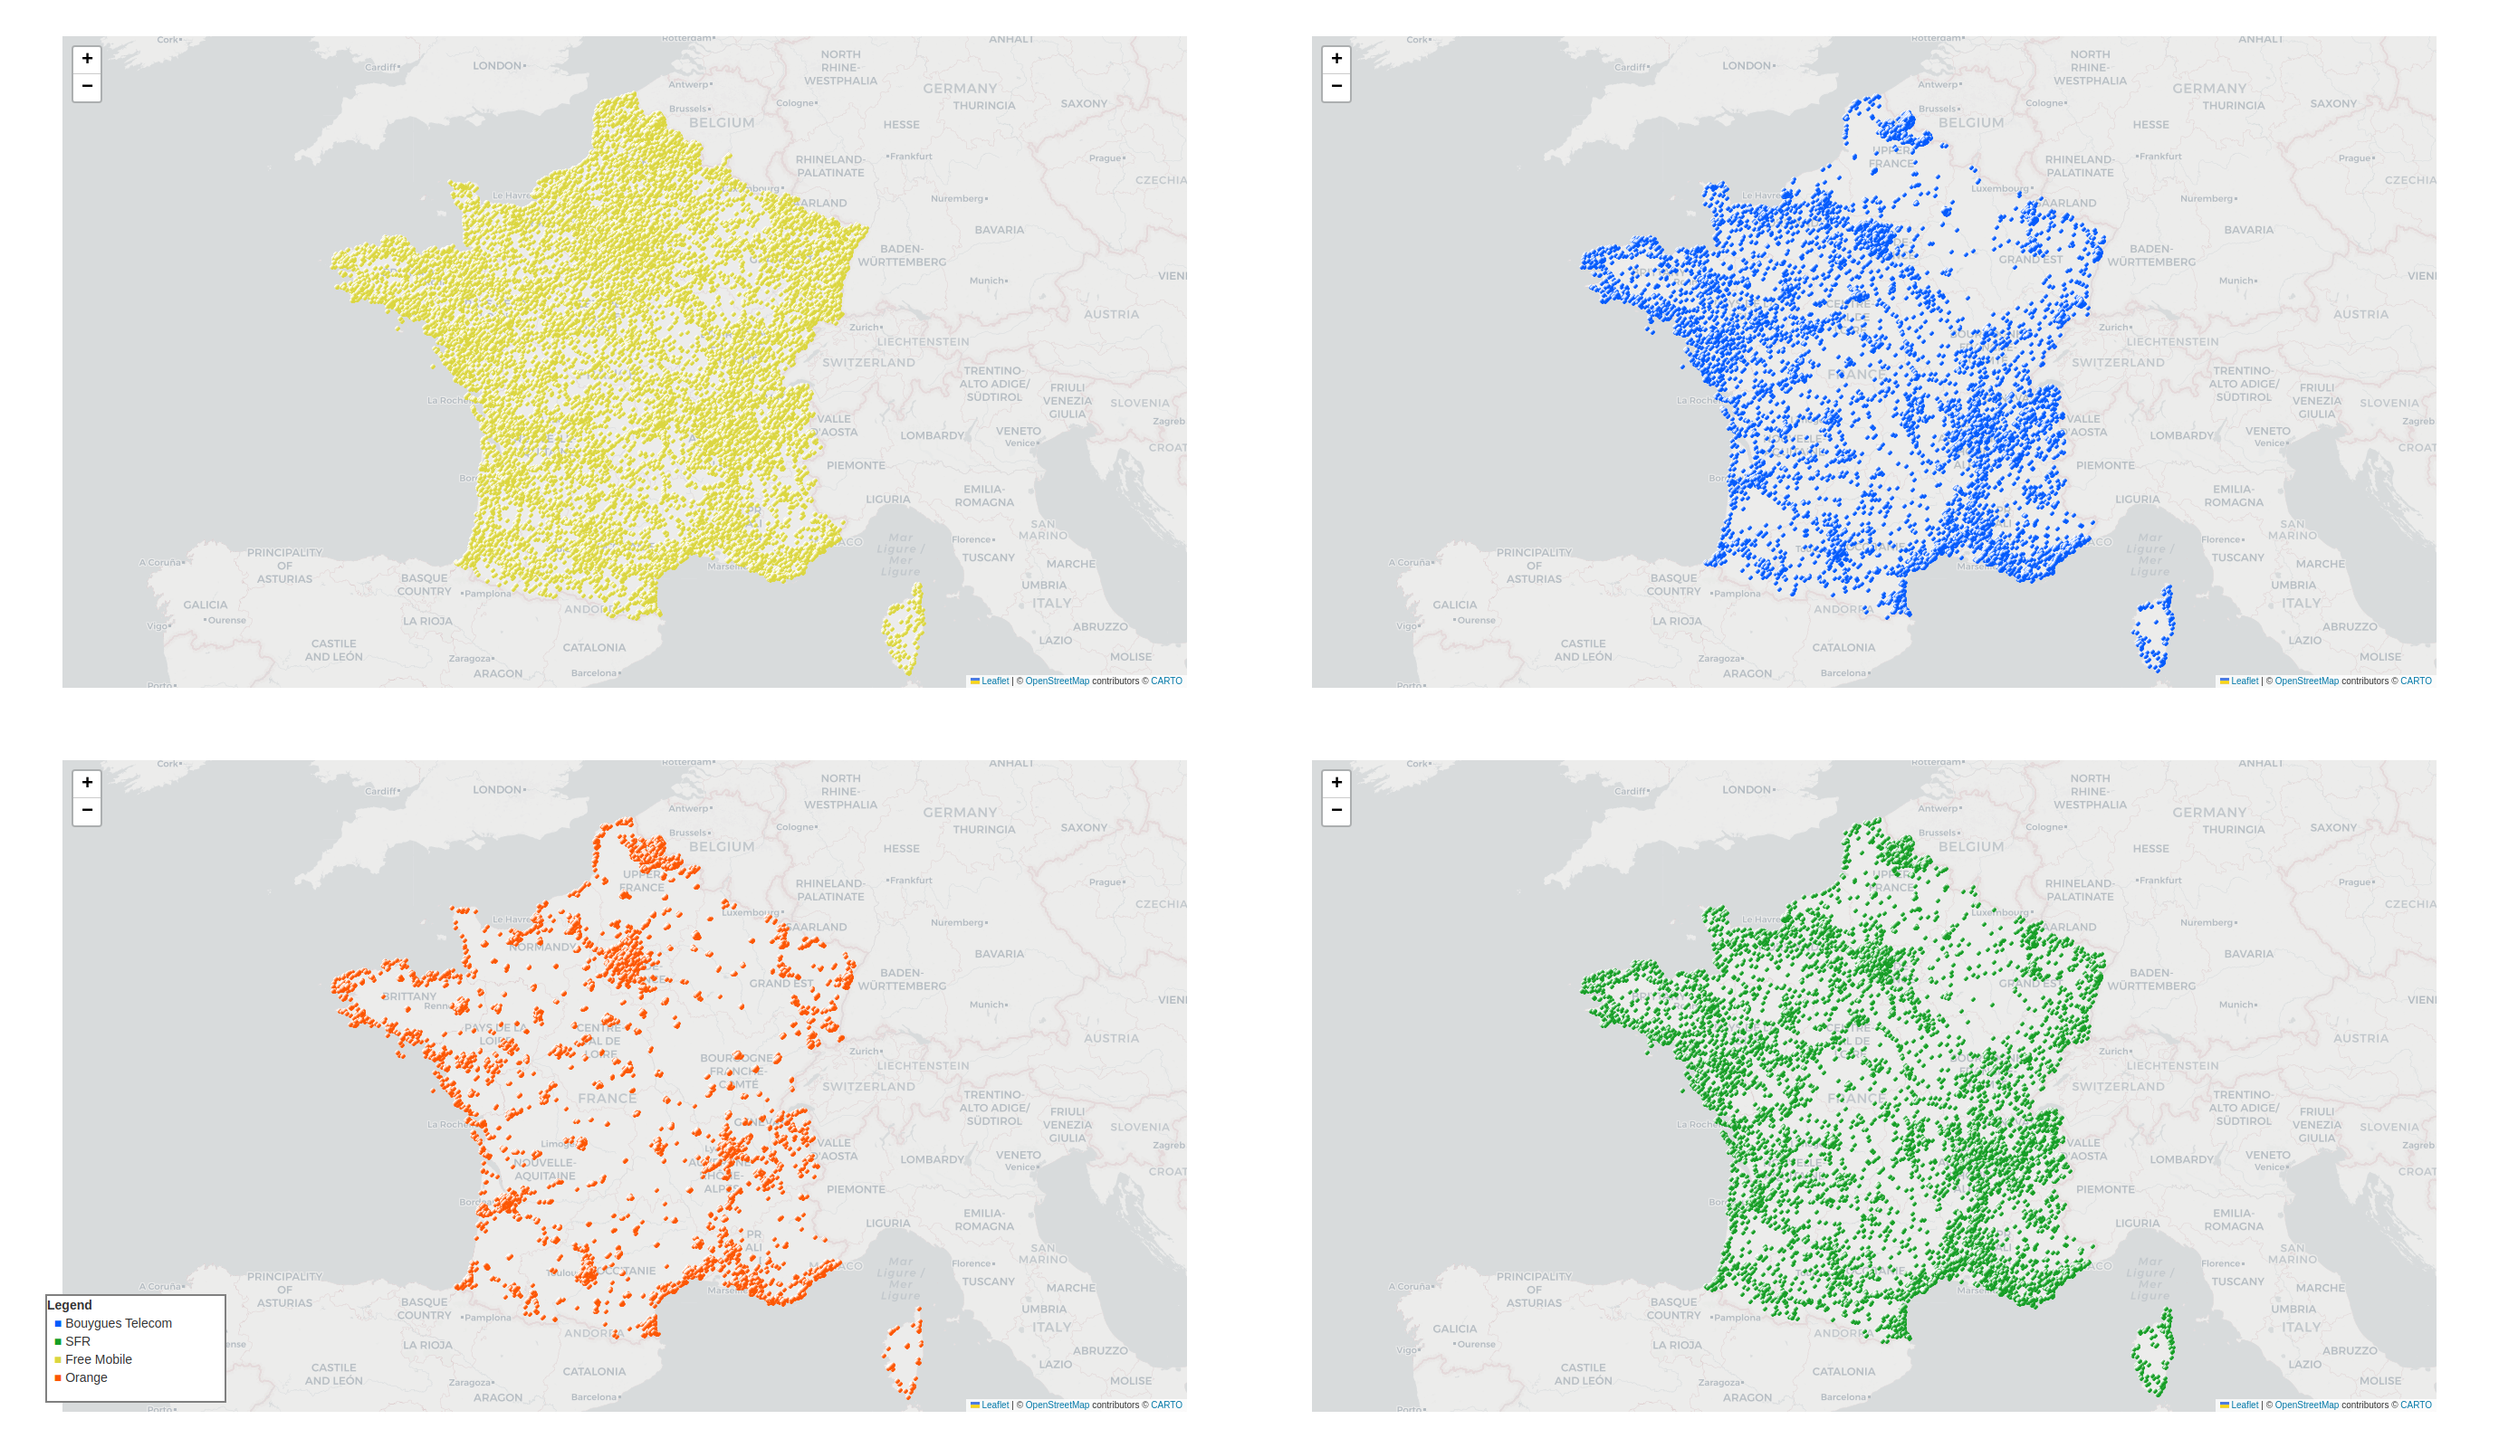
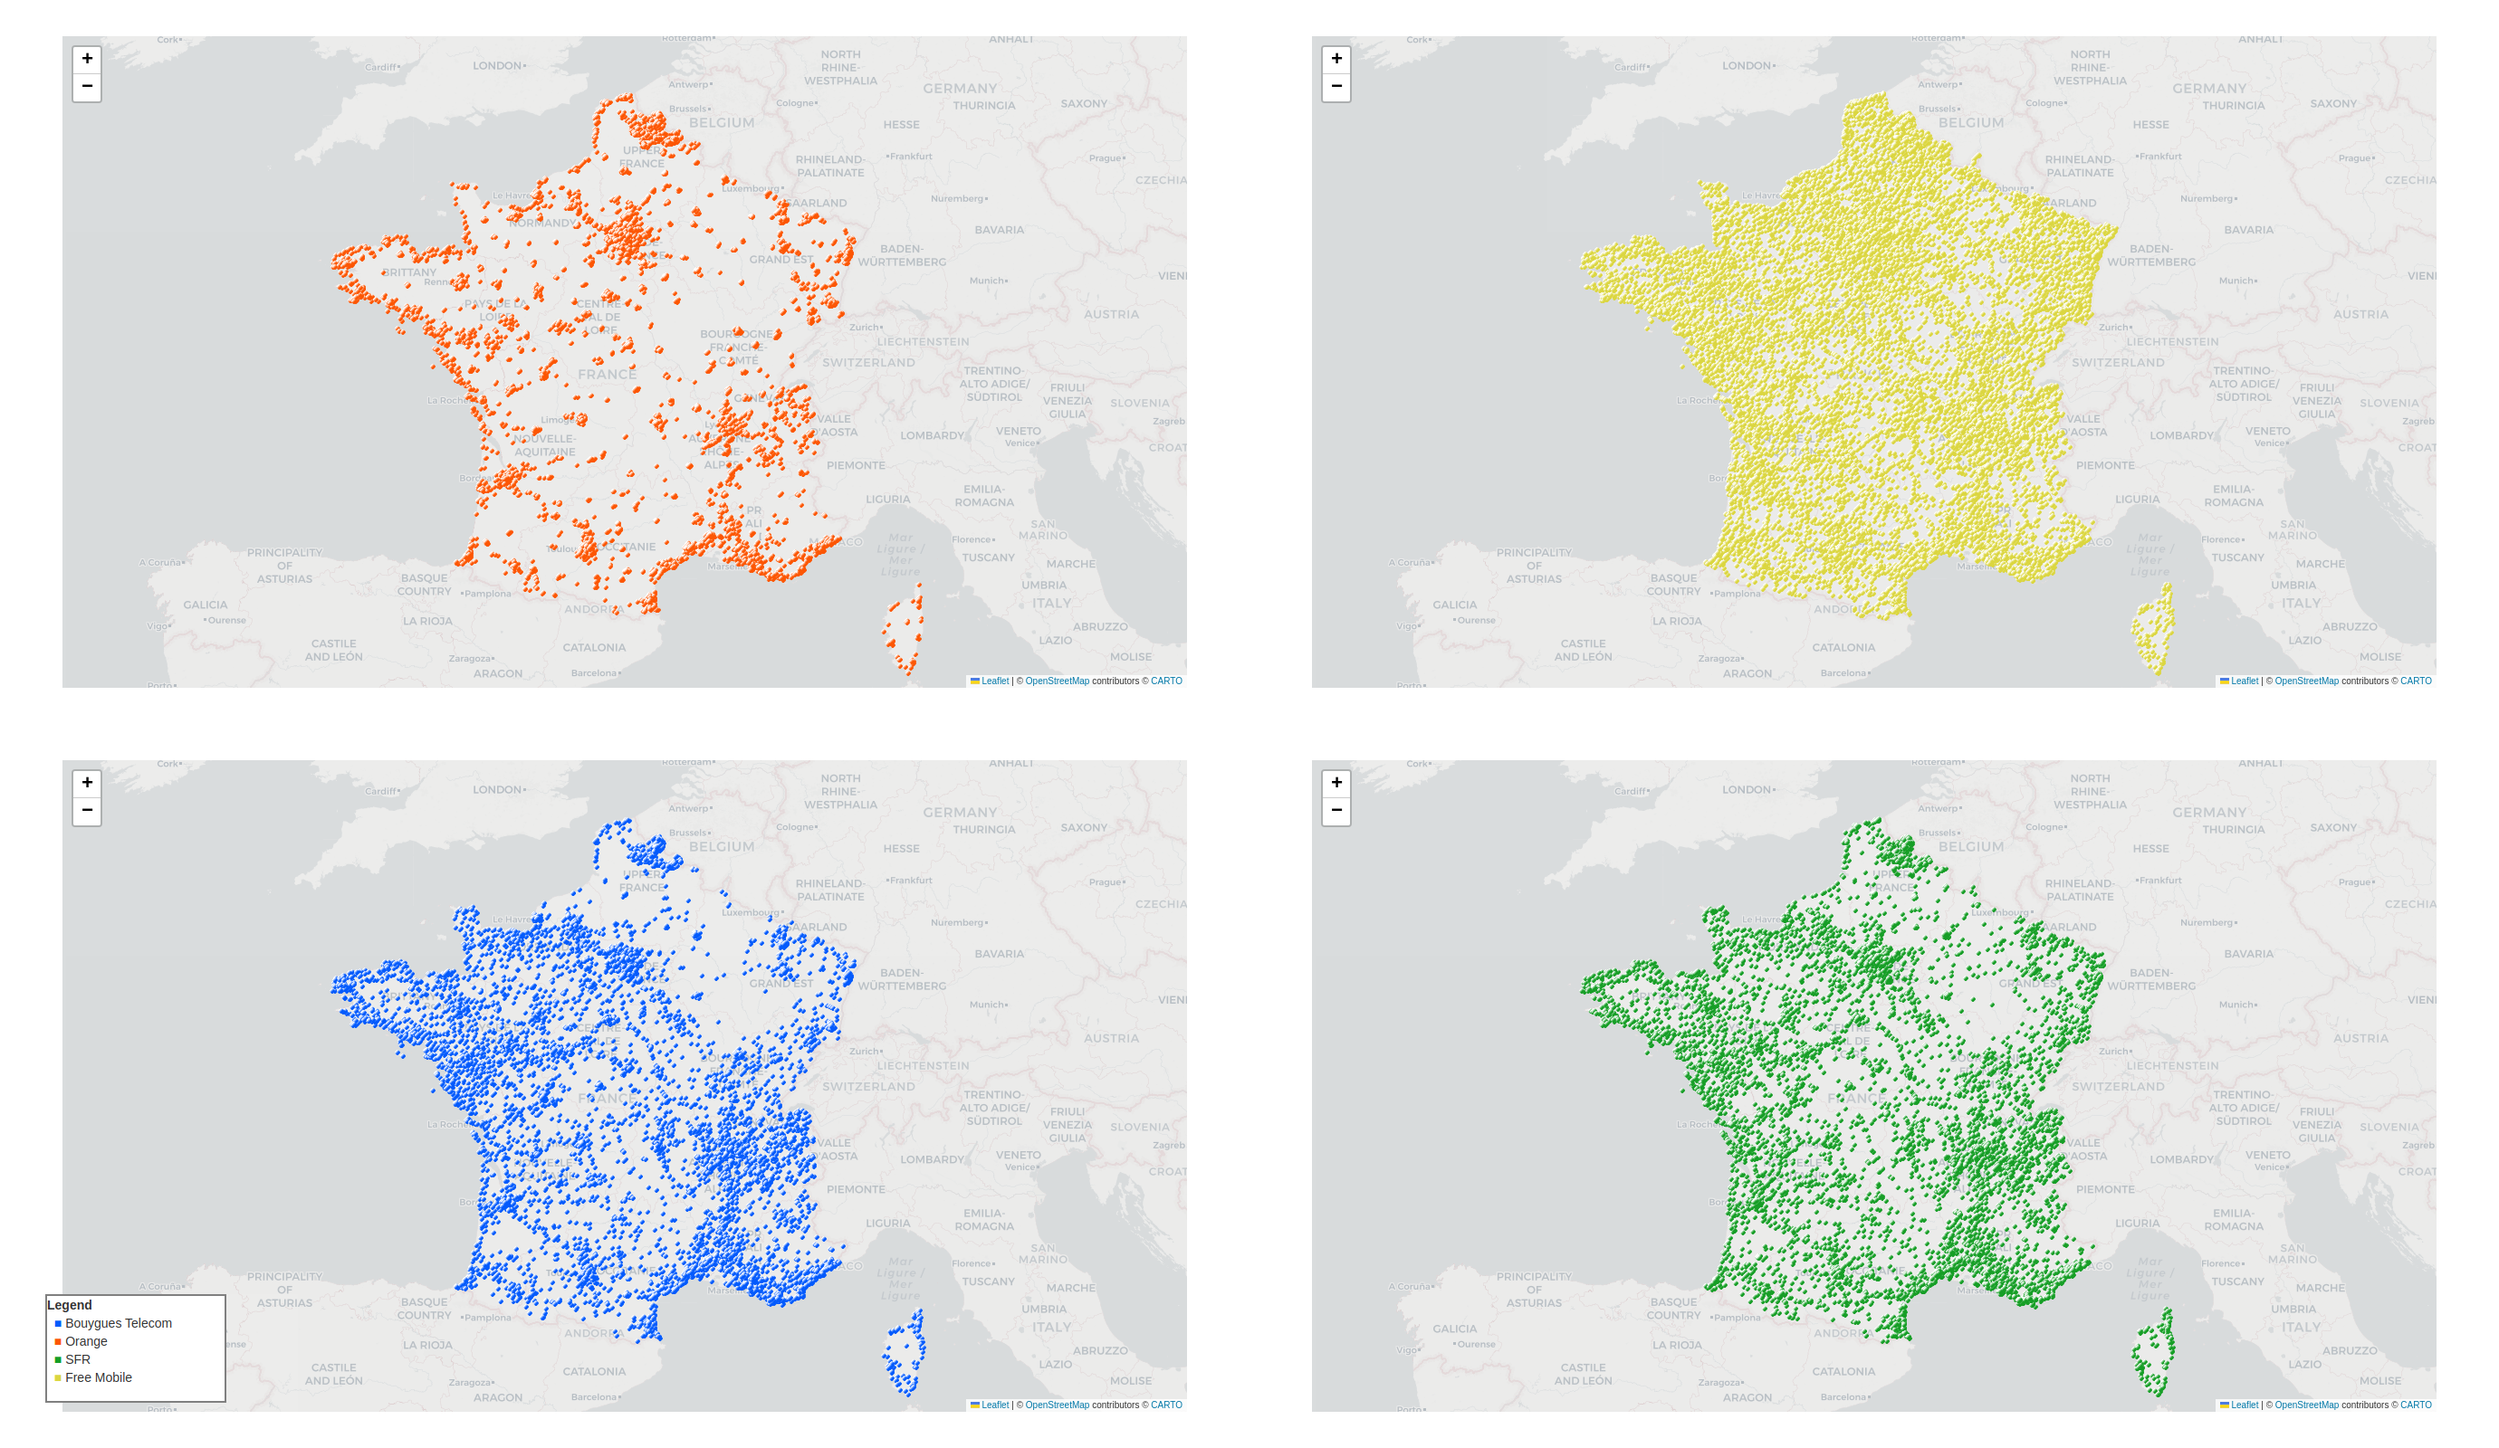
plotting evolution of 5g base stations count

diff --git a/mapUtils.py b/mapUtils.py
@@ -39,7 +39,7 @@ def getPointsInfos(data_filtered, option, epsilon, nmin, selected_tech):
             labelsToColors = {'Campagne': 'green', 'Ville': 'blue'}
         case "Opérateurs":
             labels = data_filtered['nom_op']
-            labelsToColors={'Bouygues Telecom':'#035afc','SFR':'#169e26', 'Free Mobile':'#dbd640', 'Orange':'#fc5603'}
+            labelsToColors={'Bouygues Telecom':'#035afc', 'Orange':'#fc5603', 'SFR':'#169e26', 'Free Mobile':'#dbd640'}
         case "Technologies":
             # Créer un DataFrame avec les technologies sélectionnées
             tech_df = data_filtered[selected_tech]
